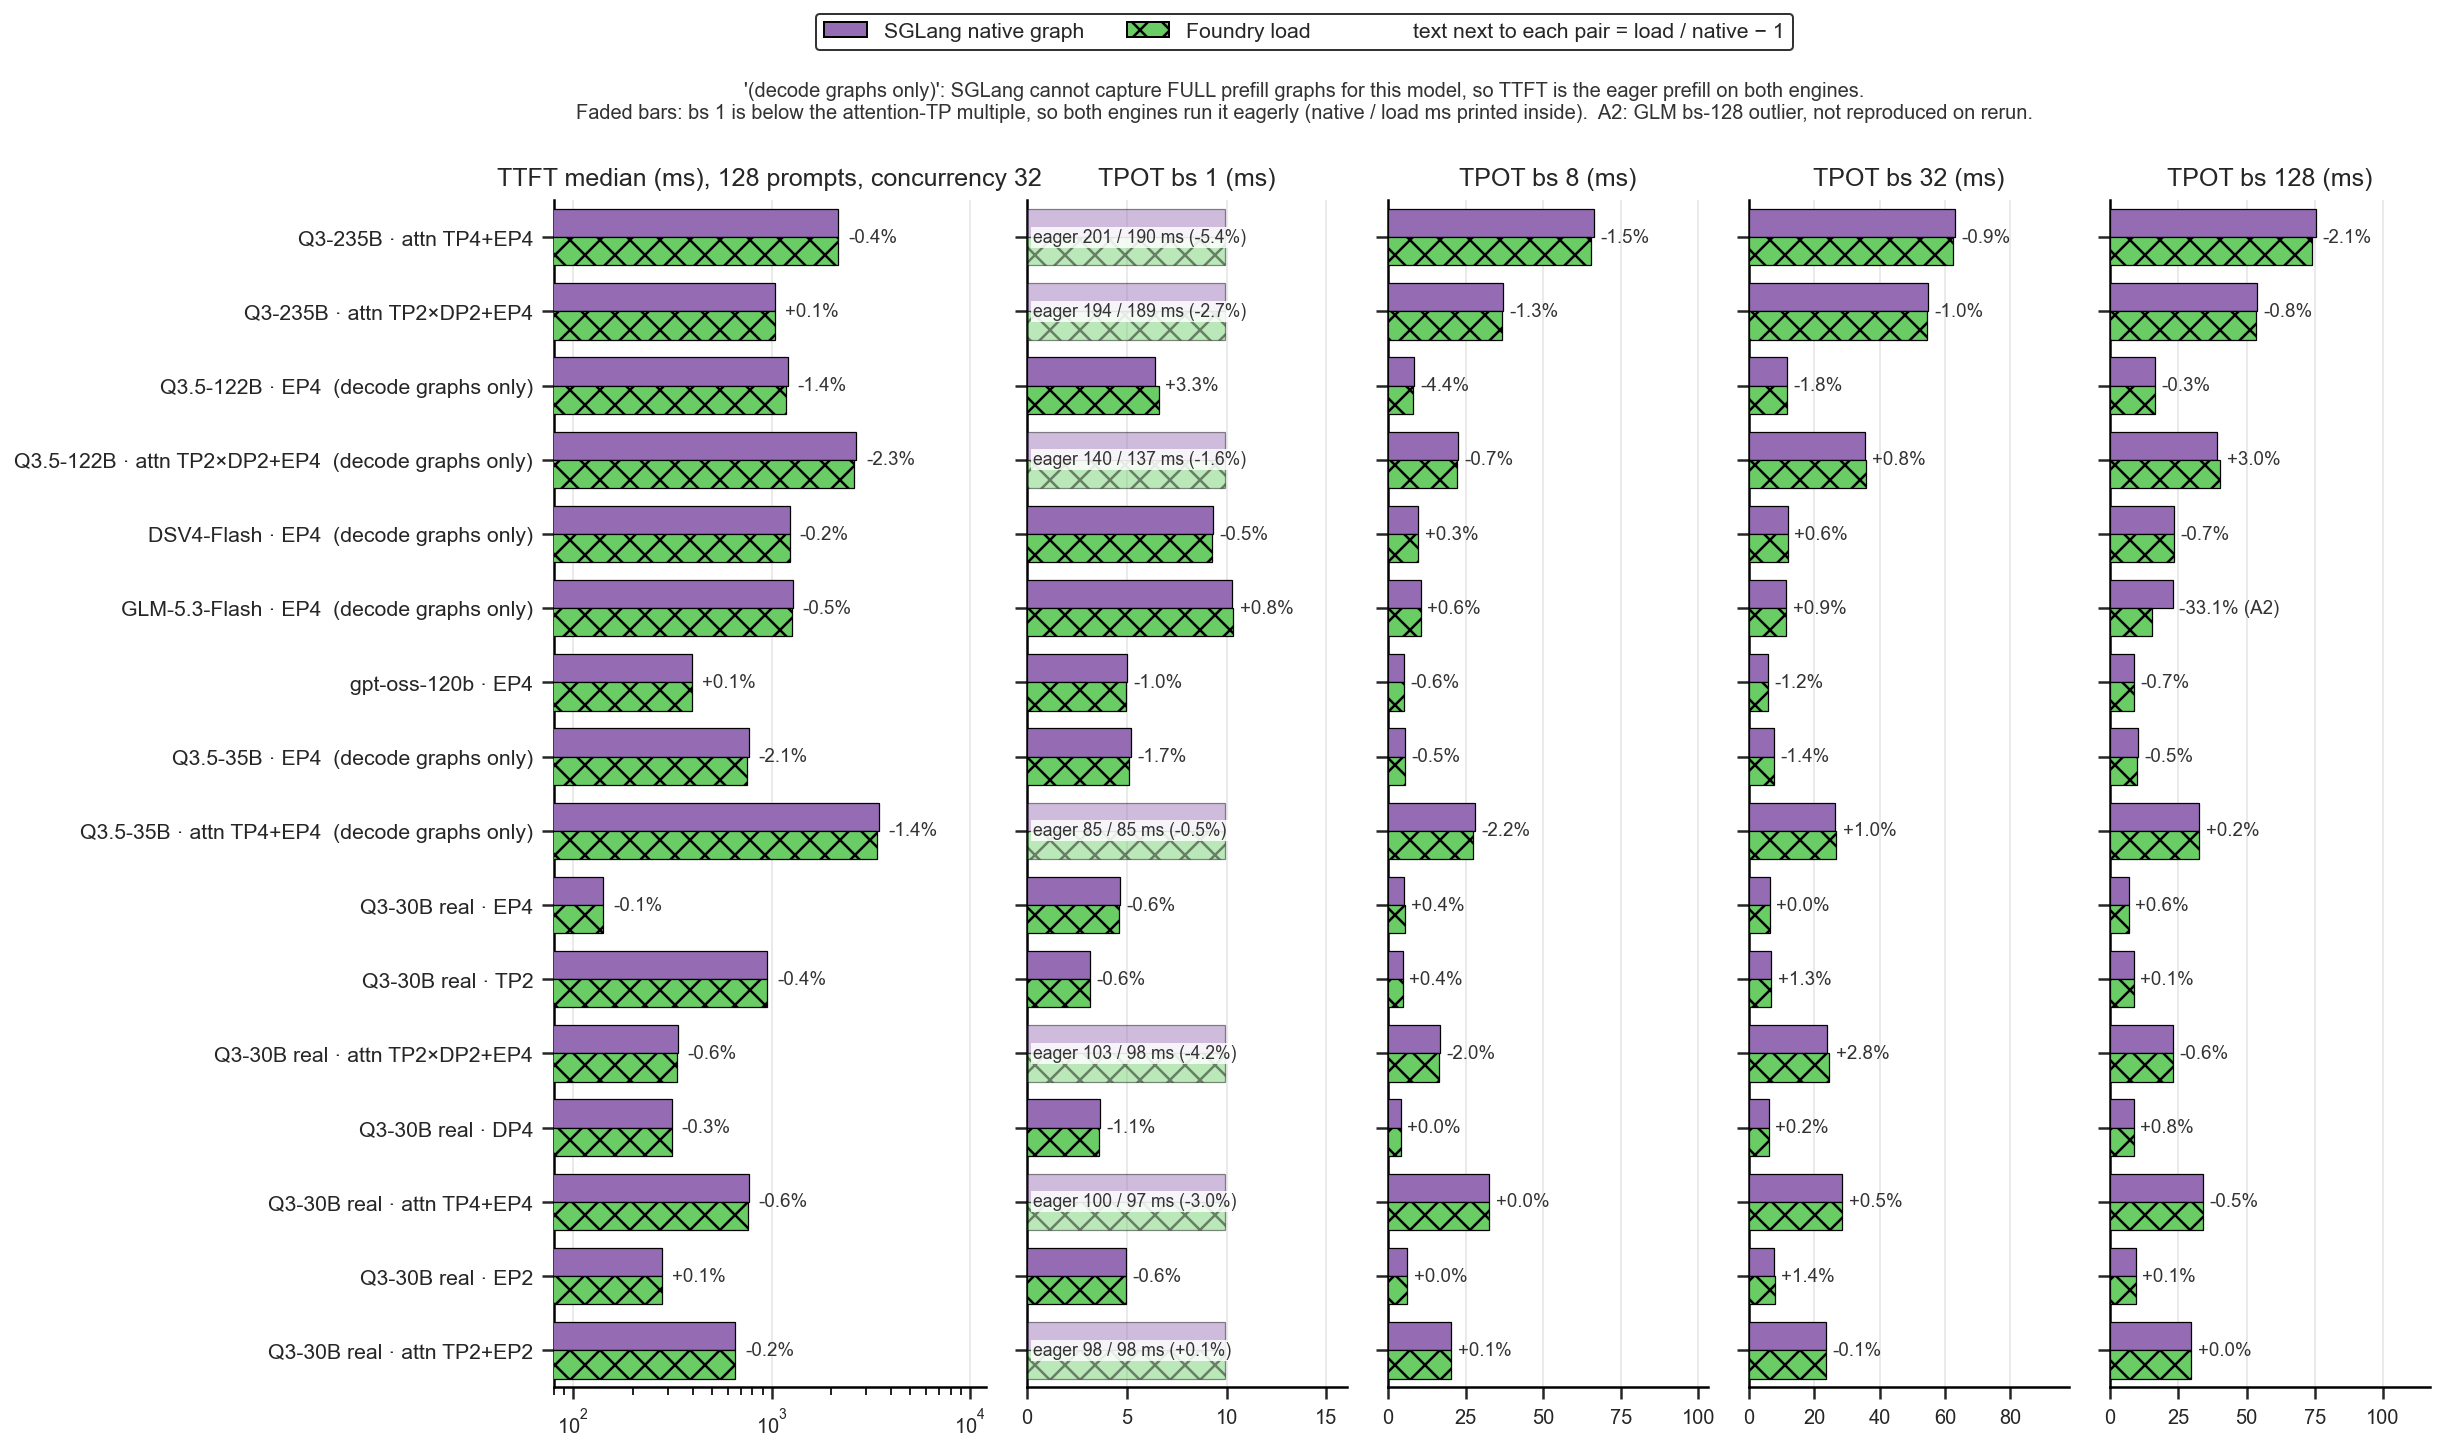
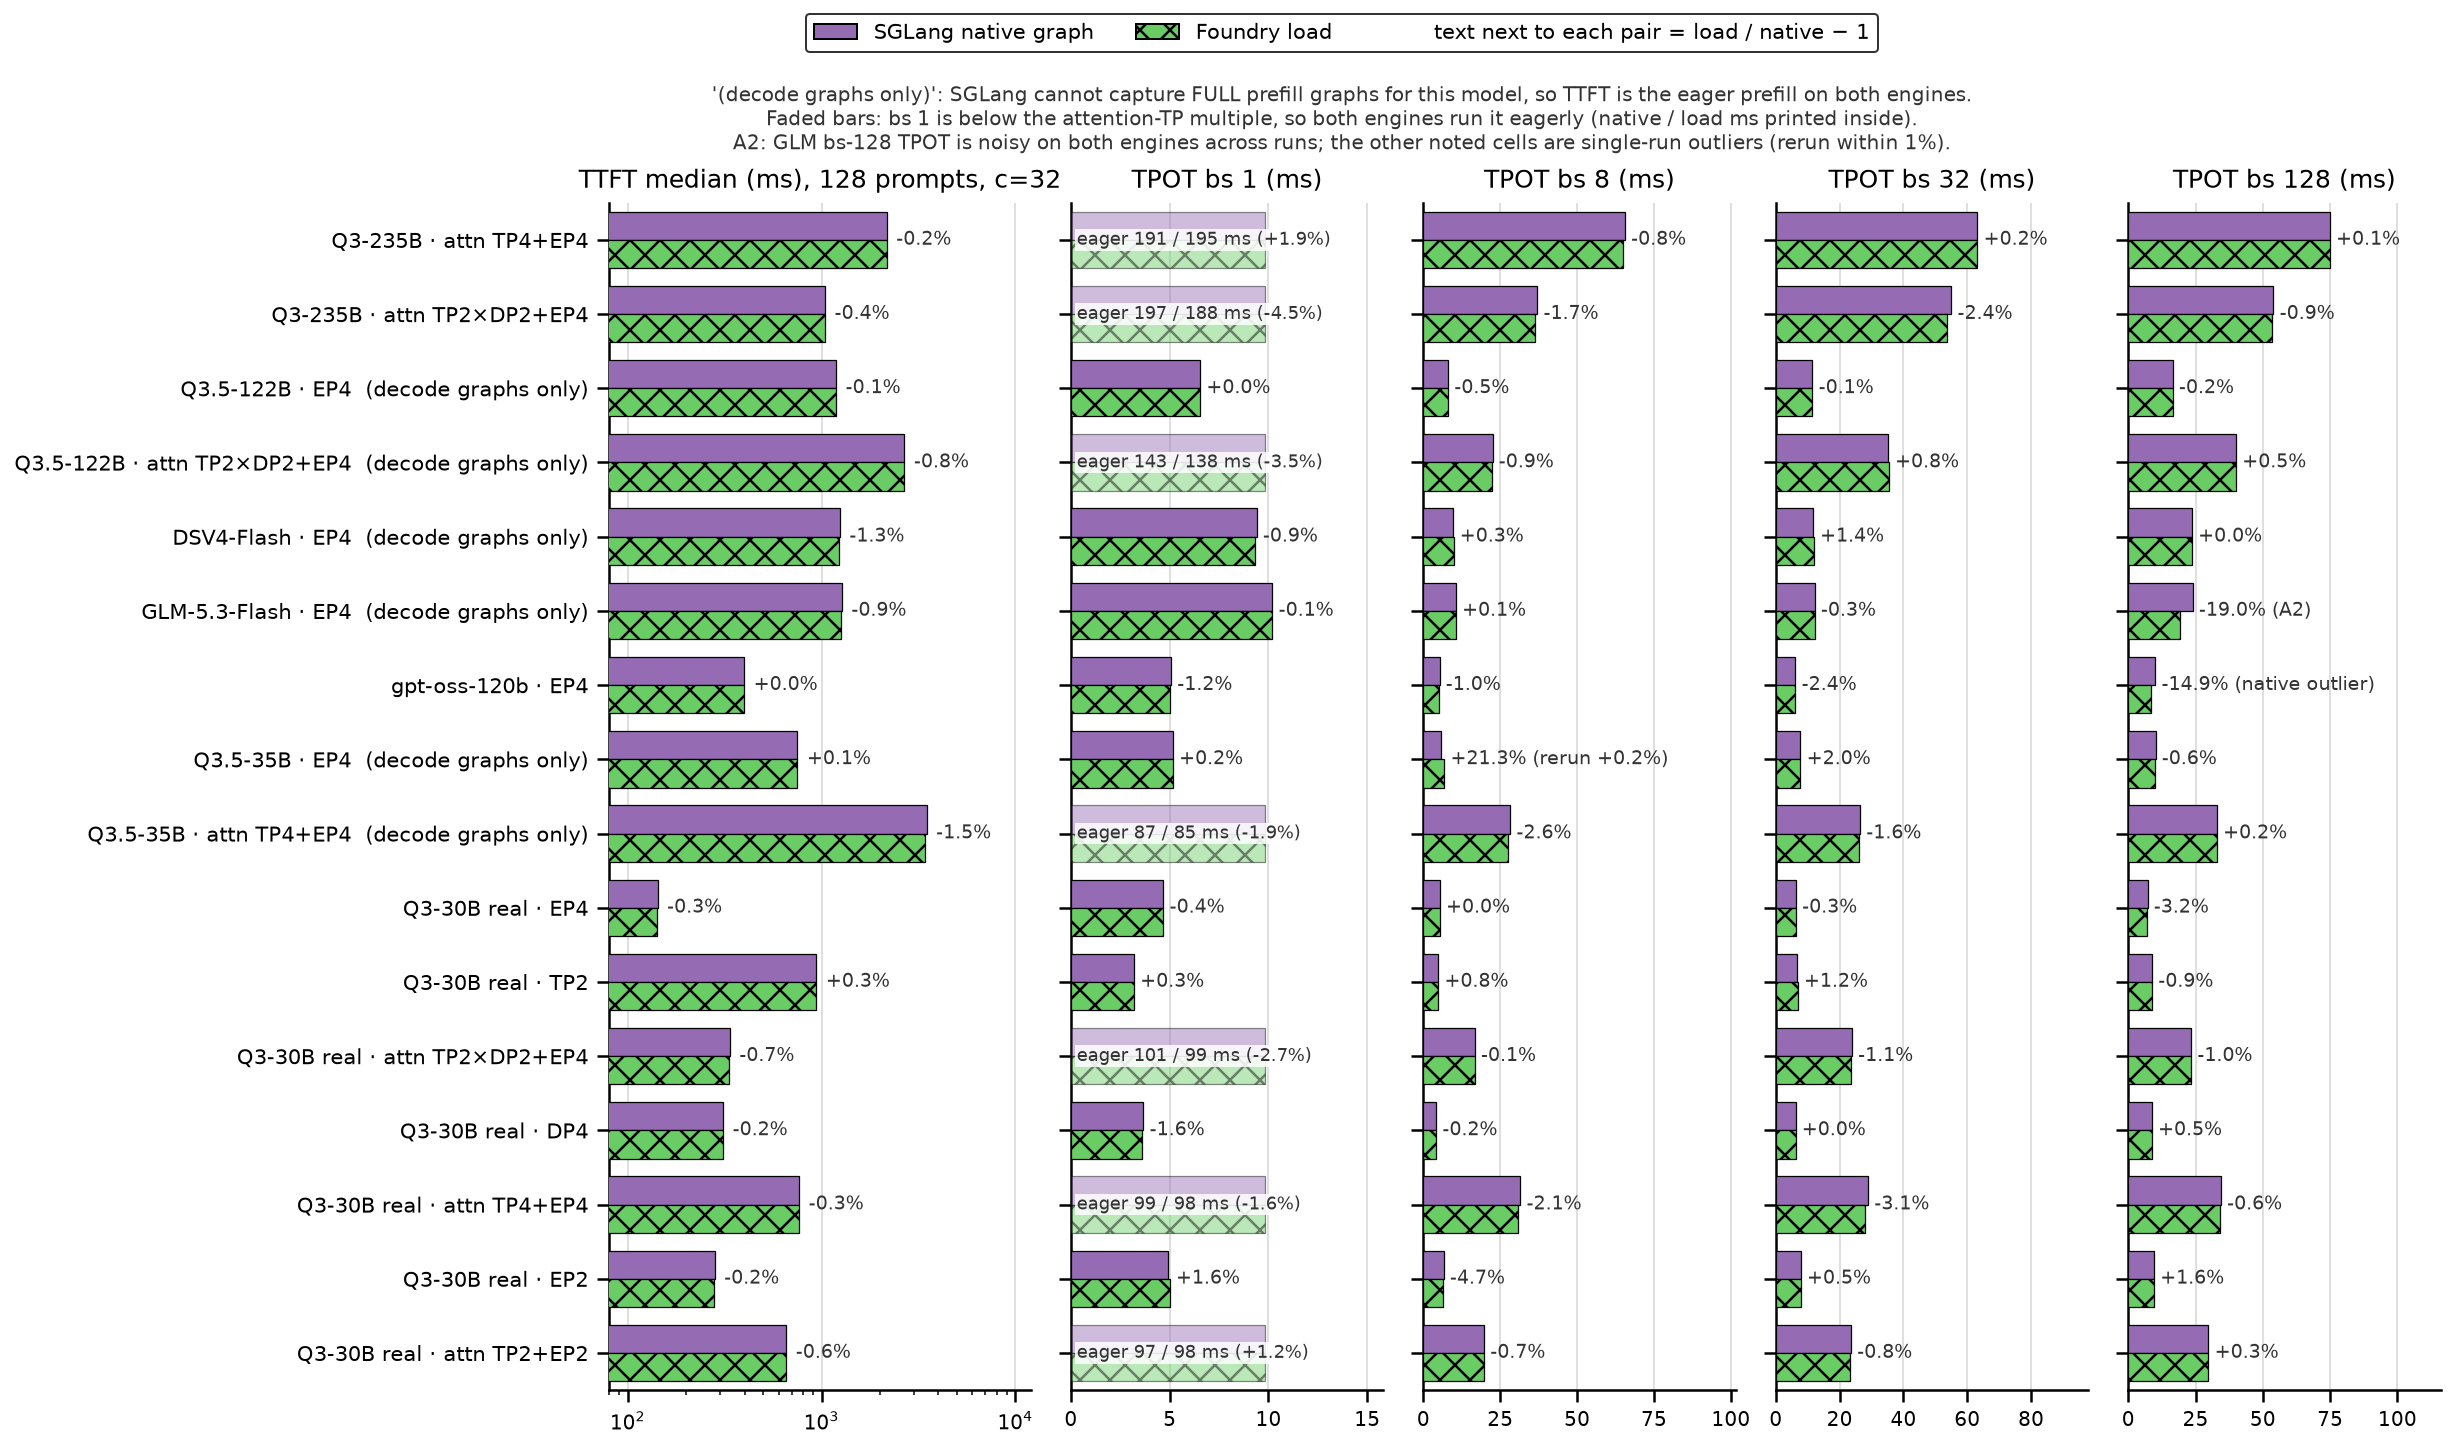
[doc] SGLang: stage and serving figures from the final validation (torch 2.14.1)

Changed region(s): [[0.0, 0.0, 0.9951, 0.9938]]

diff --git a/docs/sglang/validated-configs.md b/docs/sglang/validated-configs.md
@@ -12,8 +12,9 @@ Every model and configuration that passed Foundry SAVE + LOAD with SGLang, with 
 ## Final validation: dependency route, torch 2.14.1, 4xH200 (2026-10-07)
 
 sglang PR branch (#42254, `--cuda-graph-persistence`) on upstream `f385390be5` + foundry-core 0.1.0rc2 (dev
-`1124863`; the explicit-argument call sites of integration API 1.2 validated on top with the TP2, EP4 and 1-GPU
-rows). Stack: torch 2.14.1+cu130, flashinfer 0.7.0.post1, deep-ep 0.1.2.post1, NCCL 2.30.7. Correctness = strict
+`1124863`). The PR series as submitted (rebased onto upstream `e13933c4fd`, integration API 1.2 explicit-argument
+call sites, foundry dev `0427503`) was validated on top with the same protocol on Qwen3-30B TP2 (74.1 -> 37.7 s)
+and EP4 DeepEP LL (84.4 -> 46.7 s), Qwen3.5-35B EP4 (94.8 -> 53.7 s), the 1-GPU e2e (12/12) and the unit tests. Stack: torch 2.14.1+cu130, flashinfer 0.7.0.post1, deep-ep 0.1.2.post1, NCCL 2.30.7. Correctness = strict
 check of native graph, SAVE and LOAD: 74 requests (9 batched calls of 1-32 requests, greedy, 12 tokens), selected
 and top-3 logprobs of every step, batched and one request at a time; "exact" = identical tokens, logprob max-abs 0
 on all three pairs in both forms. Times are launch to the first `/health` 200 in the engine log; restore is
@@ -27,11 +28,11 @@ noted ones. Full tables, reruns and attribution: `claude-doc/report_coldstart/fi
 | Qwen3.5-122B-A10B-FP8 | EP4, DP attention | dummy | 0 + 128 (GDN: native limitation) | 102.1 -> **50.2** | 141.9 | 0.85 | exact | first eager prefill: FlashInfer CuTe-DSL compile, cached by foundry (known-issues) |
 | Qwen3.5-122B-A10B-FP8 | attn TP2 x DP2 + EP4 | dummy | 0 + 128 | 137.2 -> **53.8** | 139.3 | 1.26 | exact | |
 | DeepSeek-V4-Flash-FP8 | EP4, DP attention | dummy | 0 + 128 | 109.3 -> **51.0** | 143.3 | 1.17 | exact | side-stream cuBLAS workspaces in the bootstrap (`alt_streams`) |
-| GLM-5.3-Flash (FP8) | EP4, DP attention | dummy | 0 + 128 | 153.9 -> **82.8** | 164.4 | 1.09 | exact | bs-128 TPOT noisy on both engines (A2); prefill throughput rerun pending |
+| GLM-5.3-Flash (FP8) | EP4, DP attention | dummy | 0 + 128 | 153.9 -> **82.8** | 164.4 | 1.09 | exact | bs-128 TPOT noisy on both engines (A2); prefill throughput LOAD 12.6k vs native 12.2k tok/s on rerun (one earlier LOAD rep hit a 7 s all-rank stall that did not recur) |
 | gpt-oss-120b | EP4, a2a none | dummy | 10 (1..512) + 128 | 76.8 -> **50.5** | 103.3 | 0.05 + 0.52 | exact | |
 | Qwen3.5-35B-A3B | EP4, DP attention, DeepEP | dummy | 0 + 128 | 83.5 -> **45.9** | 94.2 | 0.63 | sequential exact; batched 2e-3 logprob delta from a scheduler composition race, same on native | |
 | Qwen3.5-35B-A3B | attn TP4 + EP4 | dummy | 0 + 128 | 75.2 -> **36.4** | 88.5 | 1.00 | exact | |
-| Qwen3-30B-A3B-FP8 | EP4, DP attention, DeepEP LL | **real** | 10 (1..512) + 128 | 86.6 -> **49.8** | 107.7 | 0.06 + 0.72 | exact | prefill throughput rerun pending (native 98k vs LOAD 84k tok/s once) |
+| Qwen3-30B-A3B-FP8 | EP4, DP attention, DeepEP LL | **real** | 10 (1..512) + 128 | 86.6 -> **49.8** | 107.7 | 0.06 + 0.72 | exact | prefill throughput LOAD 100.4k vs native 99.9k tok/s on rerun (the first run's 14% gap was 110 ms of a 0.66 s bench) |
 | Qwen3-30B-A3B-FP8 | TP2 | **real** | 12 (1..2048) + 128 | 75.5 -> **41.5** | 94.6 | 0.06 + 0.54 | exact | |
 | Qwen3-30B-A3B-FP8 | attn TP2 x DP2 + EP4 | **real** | 10 (2..1024) + 128 | 91.2 -> **51.8** | 116.0 | 0.06 + 0.81 | exact | |
 | Qwen3-30B-A3B-FP8 | DP4 | **real** | 12 (1..2048) + 128 | 81.0 -> **47.3** | 98.6 | 0.06 + 0.59 | exact | |
